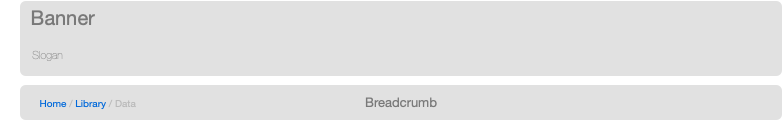
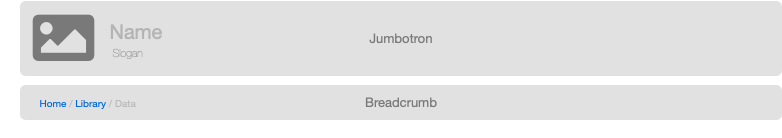
Possibility add image brand in navbar
- add image element in navbar component.
- add image in banner
- banner can display a heading title and a logo
- add favicon

Issue: #39

Changed region(s): [[0.0307, 0.058, 0.2148, 0.4638], [0.4604, 0.2609, 0.5524, 0.3188], [0.1535, 0.3478, 0.1841, 0.4348]]

diff --git a/reflow-maven-skin/src/main/resources/css/docs.css b/reflow-maven-skin/src/main/resources/css/docs.css
@@ -52,18 +52,13 @@ h3 code {
 }
 
 .jumbotron h1 {
-	font-size: 80px;
+	font-size: 3rem;
 	font-weight: bold;
 	letter-spacing: -1px;
-	line-height: 1;
+    line-height: 1;
+    color: var(--dark);
 }
 
-.jumbotron p {
-	font-size: 24px;
-	font-weight: 300;
-	line-height: 30px;
-	margin-bottom: 30px;
-}
 
 .jumbotron .btn-large {
 	font-size: 20px;
@@ -83,14 +78,12 @@ h3 code {
 ------------------------- */
 /* supporting docs pages */
 .subhead {
-	padding-bottom: 0;
+	padding-bottom: 5px;
 	margin-bottom: 9px;
 	padding-top: 10px;
 }
 
-.subhead h1 {
-	font-size: 54px;
-}
+
 
 
 /*--------------------------------------------------

diff --git a/reflow-velocity-tools/src/main/java/org/devacfr/maven/skins/reflow/model/Navbar.java b/reflow-velocity-tools/src/main/java/org/devacfr/maven/skins/reflow/model/Navbar.java
@@ -17,11 +17,14 @@ package org.devacfr.maven.skins.reflow.model;
 
 import static java.util.Objects.requireNonNull;
 
+import java.util.Objects;
+
 import javax.annotation.Nonnull;
 
 import org.apache.maven.project.MavenProject;
 import org.codehaus.plexus.util.xml.Xpp3Dom;
 import org.devacfr.maven.skins.reflow.SkinConfigTool;
+import org.devacfr.maven.skins.reflow.Xpp3Utils;
 
 import com.google.common.base.Strings;
 
@@ -44,6 +47,9 @@ public class Navbar extends BsComponent {
 
     /** */
     private final String filterMenu;
+
+    /** */
+    private final ImageBrand image;
 
     /**
      * Default constructor.
@@ -71,10 +77,17 @@ public class Navbar extends BsComponent {
         if (Strings.isNullOrEmpty(brandName)) {
             brandName = project.getArtifactId();
         }
-        this.setTheme(config.getConfigAttribute(COMPONENT, "theme", String.class, "light"));
-        this.setBackground(config.getConfigAttribute(COMPONENT, "background", String.class, "light"));
-        this.setCssClass(config.getConfigAttribute(COMPONENT, "cssClass", String.class, null));
-        this.filterMenu = config.getConfigAttribute(COMPONENT, "filterMenu", String.class, null);
+        this.setTheme(config.getAttributeValue(COMPONENT, "theme", String.class, "light"));
+        this.setBackground(config.getAttributeValue(COMPONENT, "background", String.class, "light"));
+        this.setCssClass(config.getAttributeValue(COMPONENT, "cssClass", String.class, null));
+        this.filterMenu = config.getAttributeValue(COMPONENT, "filterMenu", String.class, null);
+        Xpp3Dom element = config.get(COMPONENT);
+        Xpp3Dom img = Xpp3Utils.getFirstChild(element, "image", config.getNamespace());
+        if (img != null) {
+            this.image =  new ImageBrand(config, img);
+        } else {
+            this.image = null;
+        }
     }
 
     /**
@@ -92,9 +105,65 @@ public class Navbar extends BsComponent {
     }
 
     /**
+     * @return the image
+     */
+    public ImageBrand getImage() {
+        return image;
+    }
+
+    /**
      * @return the filterMenu
      */
     public String getFilterMenu() {
         return filterMenu;
+    }
+
+    public static class ImageBrand {
+
+        /** */
+        private final String href;
+
+        /** */
+        private final int width;
+
+        /** */
+        private final int height;
+
+        /**
+         *
+         * @param config a config (can <b>not</b> be {@code null}).
+         * @param element the element assiciated to image brand.
+         */
+        ImageBrand(@Nonnull final SkinConfigTool config, @Nonnull  Xpp3Dom element) {
+            Objects.requireNonNull(config);
+            Objects.requireNonNull(element);
+            href = config.getAttributeValue(element, "href", String.class, null);
+            if (Strings.isNullOrEmpty(href)) {
+                throw new IllegalArgumentException("the attribute 'href' of image element is required");
+            }
+            width = config.getAttributeValue(element, "width", Integer.class, 30);
+            height = config.getAttributeValue(element, "height", Integer.class, 30);
+        }
+
+        /**
+         * @return the href
+         */
+        public String getHref() {
+            return href;
+        }
+
+        /**
+         * @return the height
+         */
+        public int getHeight() {
+            return height;
+        }
+
+        /**
+         * @return the width
+         */
+        public int getWidth() {
+            return width;
+        }
     }
 }

diff --git a/reflow-velocity-tools/src/main/java/org/devacfr/maven/skins/reflow/SkinConfigTool.java b/reflow-velocity-tools/src/main/java/org/devacfr/maven/skins/reflow/SkinConfigTool.java
@@ -309,7 +309,7 @@ public class SkinConfigTool extends SafeConfig {
      *            the type of returned object.
      */
     @SuppressWarnings("unchecked")
-    public <T> T getConfigValue(final String property, final Class<T> targetType, final T defaultValue) {
+    public <T> T getPropertyValue(final String property, final Class<T> targetType, final T defaultValue) {
         final String value = value(property);
         if (value == null) {
             return defaultValue;
@@ -355,7 +355,7 @@ public class SkinConfigTool extends SafeConfig {
      *            the type of returned object.
      */
     @SuppressWarnings("unchecked")
-    public <T> T getConfigAttribute(final String property,
+    public <T> T getAttributeValue(final String property,
         final String attribute,
         final Class<T> targetType,
         final T defaultValue) {
@@ -382,6 +382,29 @@ public class SkinConfigTool extends SafeConfig {
             return defaultValue;
         }
 
+        Object returnedValue = value;
+        if (targetType.isAssignableFrom(Boolean.class)) {
+            returnedValue = Boolean.valueOf(value);
+        } else if (targetType.isAssignableFrom(Integer.class)) {
+            returnedValue = Integer.valueOf(value);
+        } else if (targetType.isAssignableFrom(Long.class)) {
+            returnedValue = Long.valueOf(value);
+        }
+        return (T) returnedValue;
+    }
+
+    @SuppressWarnings("unchecked")
+    public <T> T getAttributeValue(final Xpp3Dom element,
+        final String attribute,
+        final Class<T> targetType,
+        final T defaultValue) {
+        if (element == null) {
+            return defaultValue;
+        }
+        String value = element.getAttribute(attribute);
+        if (value == null) {
+            return defaultValue;
+        }
         Object returnedValue = value;
         if (targetType.isAssignableFrom(Boolean.class)) {
             returnedValue = Boolean.valueOf(value);

diff --git a/reflow-velocity-tools/src/main/java/org/devacfr/maven/skins/reflow/model/TocTopBar.java b/reflow-velocity-tools/src/main/java/org/devacfr/maven/skins/reflow/model/TocTopBar.java
@@ -39,11 +39,11 @@ public class TocTopBar extends Toc<TocTopBar> {
      */
     public TocTopBar(final @Nonnull SkinConfigTool config) {
         super("top", "navbar");
-        this.setTheme(config.getConfigAttribute(COMPONENT, "theme", String.class, "light"));
-        this.setBackground(config.getConfigAttribute(COMPONENT, "background", String.class, "light"));
-        this.setCssClass(config.getConfigAttribute(COMPONENT, "cssClass", String.class, null));
-        this.withFlatten(config.getConfigAttribute(COMPONENT, "flatten", Boolean.class, false))
-                .withNumberItems(config.getConfigAttribute(COMPONENT, "numberItems", Integer.class, -1))
+        this.setTheme(config.getAttributeValue(COMPONENT, "theme", String.class, "light"));
+        this.setBackground(config.getAttributeValue(COMPONENT, "background", String.class, "light"));
+        this.setCssClass(config.getAttributeValue(COMPONENT, "cssClass", String.class, null));
+        this.withFlatten(config.getAttributeValue(COMPONENT, "flatten", Boolean.class, false))
+                .withNumberItems(config.getAttributeValue(COMPONENT, "numberItems", Integer.class, -1))
                 .withEnabled(true);
     }
 

diff --git a/reflow-velocity-tools/src/main/java/org/devacfr/maven/skins/reflow/model/NavSideMenu.java b/reflow-velocity-tools/src/main/java/org/devacfr/maven/skins/reflow/model/NavSideMenu.java
@@ -126,10 +126,10 @@ public class NavSideMenu extends BsComponent {
         this.withName(menu.getAttribute("name"))
                 .withItems(items)
                 .withSelectFirstOnSelect(
-                    config.getConfigAttribute("menu", "selectFirstOnExpand", Boolean.class, true));
-        this.setTheme(config.getConfigAttribute(COMPONENT, "theme", String.class, "light"));
-        this.setBackground(config.getConfigAttribute(COMPONENT, "background", String.class, "light"));
-        this.setCssClass(config.getConfigAttribute(COMPONENT, "cssClass", String.class, null));
+                    config.getAttributeValue("menu", "selectFirstOnExpand", Boolean.class, true));
+        this.setTheme(config.getAttributeValue(COMPONENT, "theme", String.class, "light"));
+        this.setBackground(config.getAttributeValue(COMPONENT, "background", String.class, "light"));
+        this.setCssClass(config.getAttributeValue(COMPONENT, "cssClass", String.class, null));
     }
 
     /**

diff --git a/reflow-velocity-tools/src/main/java/org/devacfr/maven/skins/reflow/model/TocSidebar.java b/reflow-velocity-tools/src/main/java/org/devacfr/maven/skins/reflow/model/TocSidebar.java
@@ -42,10 +42,10 @@ public class TocSidebar extends Toc<TocSidebar> {
      */
     public TocSidebar(final @Nonnull SkinConfigTool config) {
         super("sidebar", "");
-        final String position = config.getConfigAttribute("toc", "position", String.class, "fixed").toLowerCase();
+        final String position = config.getAttributeValue("toc", "position", String.class, "fixed").toLowerCase();
         this.withEnabled(true)
-                .withExpanded(config.getConfigAttribute("toc", "expanded", Boolean.class, true))
-                .withAutoExpandable(config.getConfigAttribute("toc", "autoExpandable", Boolean.class, true))
+                .withExpanded(config.getAttributeValue("toc", "expanded", Boolean.class, true))
+                .withAutoExpandable(config.getAttributeValue("toc", "autoExpandable", Boolean.class, true))
                 .withFixed("fixed".equals(position));
     }
 

diff --git a/reflow-velocity-tools/src/main/java/org/devacfr/maven/skins/reflow/model/Footer.java b/reflow-velocity-tools/src/main/java/org/devacfr/maven/skins/reflow/model/Footer.java
@@ -41,9 +41,9 @@ public class Footer extends BsComponent {
     public Footer(@Nonnull final SkinConfigTool config) {
         super(COMPONENT);
         requireNonNull(config);
-        this.setTheme(config.getConfigAttribute(COMPONENT, "theme", String.class, "light"));
-        this.setBackground(config.getConfigAttribute(COMPONENT, "background", String.class, "light"));
-        this.setCssClass(config.getConfigAttribute(COMPONENT, "cssClass", String.class, null));
+        this.setTheme(config.getAttributeValue(COMPONENT, "theme", String.class, "light"));
+        this.setBackground(config.getAttributeValue(COMPONENT, "background", String.class, "light"));
+        this.setCssClass(config.getAttributeValue(COMPONENT, "cssClass", String.class, null));
     }
 
 }

diff --git a/reflow-velocity-tools/src/main/java/org/devacfr/maven/skins/reflow/model/ScrollTop.java b/reflow-velocity-tools/src/main/java/org/devacfr/maven/skins/reflow/model/ScrollTop.java
@@ -21,7 +21,7 @@ import org.devacfr.maven.skins.reflow.SkinConfigTool;
 
 /**
  * Represents the scoll top component.
- * 
+ *
  * @author devacfr
  * @since 2.0
  */
@@ -38,7 +38,7 @@ public class ScrollTop extends Component {
      */
     public ScrollTop(final @Nonnull SkinConfigTool config) {
 
-        this.smooth = config.getConfigValue("smoothScroll", Boolean.class, true);
+        this.smooth = config.getPropertyValue("smoothScroll", Boolean.class, true);
     }
 
     /**

diff --git a/reflow-maven-skin/src/site/markdown/components/navbar.md b/reflow-maven-skin/src/site/markdown/components/navbar.md
@@ -13,7 +13,9 @@ element <span class="badge badge-secondary">reflow</span> <span class="badge bad
 <navbar filterMenu="Regex filter"
         cssClass="bootstrap classes"
         theme="light|dark"
-        background="bootstrap colour theme" />
+        background="bootstrap colour theme">
+    <image href="image path" width="number|30" height="number|30" />
+</navbar>
 ```
 
 - **filterMenu** <span class="badge badge-light">v2.0</span> - applies the regular expression to menu names and `ref` attributes. If the regular expression matches, adds the menu to the top navigation.
@@ -21,6 +23,14 @@ element <span class="badge badge-secondary">reflow</span> <span class="badge bad
 - **cssClass** <span class="badge badge-light">v2.0</span> - Sets the css class with built-in Bootstrap support. `navbar-light bg-light` is the default value if value is empty or `null`. **note**: `cssClass` override attributes `theme` and `background` if is filled.
 - **theme** <span class="badge badge-light">v2.0</span> - Sets the css class with built-in Bootstrap theme . `light` is the default value if value is empty or `null`.
 - **background** <span class="badge badge-light">v2.0</span> - Sets the css class with built-in Bootstrap colour theme. `light` is the default value if value is empty or `null`.
+
+**Image element**
+
+Add image to the brand part of navbar.
+
+- **href** <span class="badge badge-light">v2.0</span> - the path location of image to use.
+- **width** <span class="badge badge-light">v2.0</span> - the width of image, 30 is the default if value is empty or `null`.
+- **height** <span class="badge badge-light">v2.0</span> - the height of image, 30 is the default if value is empty or `null`.
 
 ## Brand
 

diff --git a/src/site/resources/README.md b/src/site/resources/README.md
@@ -1,0 +1,23 @@
+# Your Favicon Package
+
+This package was generated with [RealFaviconGenerator](https://realfavicongenerator.net/) [v0.16](https://realfavicongenerator.net/change_log#v0.16)
+
+## Install instructions
+
+To install this package:
+
+Extract this package in the root of your web site. If your site is <code>http://www.example.com</code>, you should be able to access a file named <code>http://www.example.com/favicon.ico</code>.
+
+Insert the following code in the `head` section of your pages:
+
+    <link rel="apple-touch-icon" sizes="144x144" href="/apple-touch-icon.png">
+    <link rel="icon" type="image/png" sizes="32x32" href="/favicon-32x32.png">
+    <link rel="icon" type="image/png" sizes="16x16" href="/favicon-16x16.png">
+    <link rel="manifest" href="/site.webmanifest">
+    <link rel="mask-icon" href="/safari-pinned-tab.svg" color="#5bbad5">
+    <meta name="apple-mobile-web-app-title" content="Reflow Skin">
+    <meta name="application-name" content="Reflow Skin">
+    <meta name="msapplication-TileColor" content="#da532c">
+    <meta name="theme-color" content="#ffffff">
+
+*Optional* - Check your favicon with the [favicon checker](https://realfavicongenerator.net/favicon_checker)

diff --git a/reflow-maven-skin/src/site/markdown/components/header.md b/reflow-maven-skin/src/site/markdown/components/header.md
@@ -8,8 +8,7 @@ Standard Maven site allows customising the website _banner_.
 
 element <span class="badge badge-secondary">site.xml</span>
 
-The banner (big _Reflow Maven Skin_ text on this website) is defined using 
-[standard `<bannerLeft>` or `<bannerRight>` elements][mvn-site-banner] in `site.xml` site
+The banner (big _Reflow Maven Skin_ text on this website) is defined using [standard `<bannerLeft>` or `<bannerRight>` elements][mvn-site-banner] in `site.xml` site
 descriptor instead of using `<custom><reflowSkin>`:
 
 ```xml
@@ -21,6 +20,7 @@ descriptor instead of using `<custom><reflowSkin>`:
       <span class="color-highlight">Reflow</span> Maven Skin
       ]]>
     </name>
+    <src>./logo.png</src>
     <href>http://devacfr.github.io/reflow-maven-skin</href>
   </bannerLeft>
   ...
@@ -29,6 +29,7 @@ descriptor instead of using `<custom><reflowSkin>`:
 
 <div class="alert alert-info">
     <strong>Note</strong>
+    <p>Unlike the **maven fluido skin**, <code>&lt;name&gt;</code> is used to display h1 heading title.</p>
     <p><code>&lt;name&gt;</code> element can have `CDATA` element as its contents, allowing custom HTML content in the banner.</p>
 </div>
 

diff --git a/reflow-maven-skin/src/site/markdown/migration.md b/reflow-maven-skin/src/site/markdown/migration.md
@@ -127,6 +127,12 @@ Doxia Sitetools has introduce the edit source feature in [decoration model 1.8][
 
 This list highlights key changes by component between v1.4 and v2.0.0.
 
+### Banner
+
+Before, you had the solution to display either a logo or a title. Now you have the choice to display a logo and a title.
+
+- `name` is used to display title heading in elements **bannerLeft** and **bannerRight**, use `alt` element instead `name`.
+
 ### Navside menu
 
 It is a new component used in documentation page support. (see [Navside Menu Component][navside-doc] documentation )
